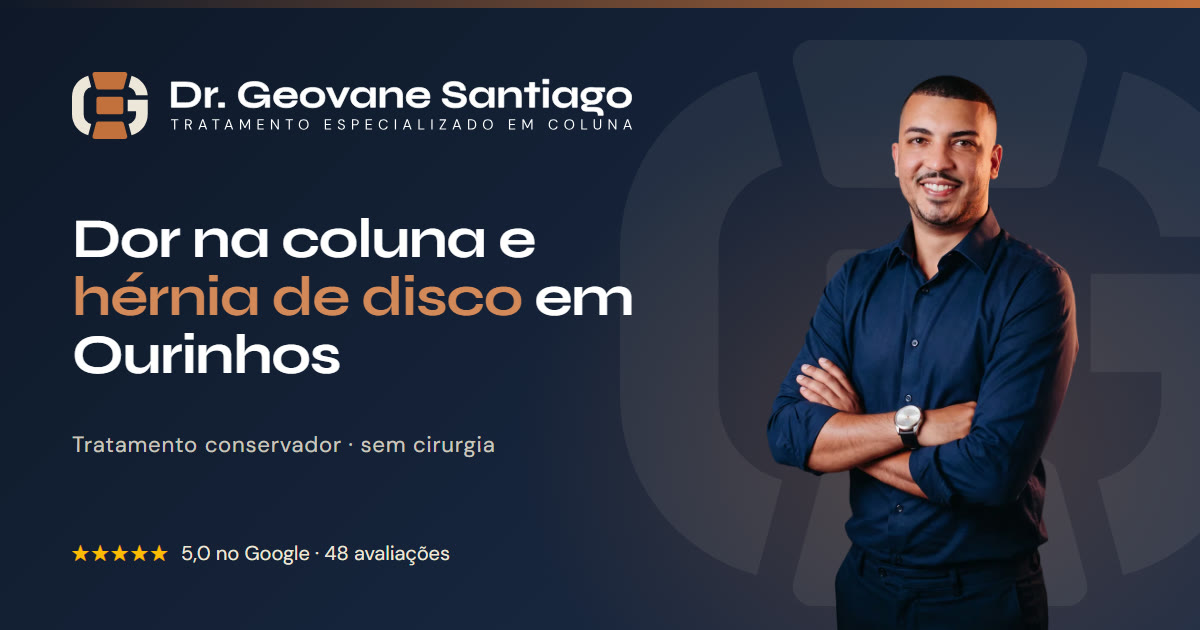
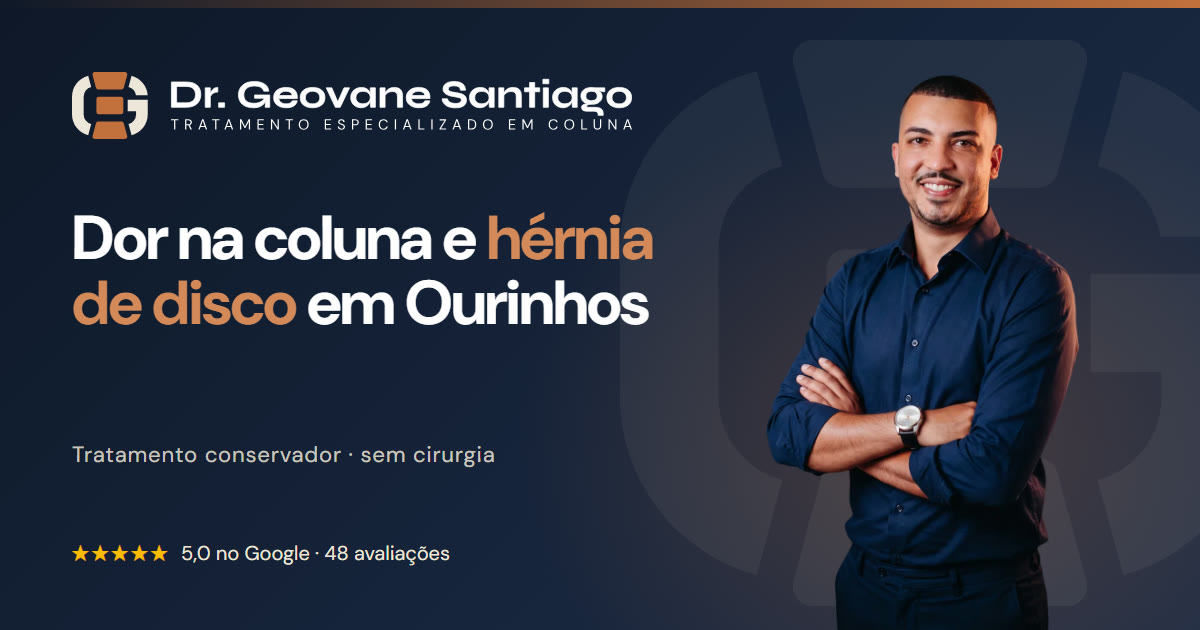
style: títulos de seção em DM Sans com peso uniforme; remove a Syne do site

Changed region(s): [[0.0617, 0.3317, 0.555, 0.6032], [0.0617, 0.6937, 0.4317, 0.754]]

diff --git a/style.css b/style.css
@@ -1,13 +1,5 @@
 /* ===== FONTES (self-host, variáveis) ===== */
 @font-face {
-  font-family: 'Syne';
-  src: url('fonts/syne.woff2') format('woff2');
-  font-weight: 400 800;
-  font-style: normal;
-  font-display: swap;
-}
-
-@font-face {
   font-family: 'DM Sans';
   src: url('fonts/dm-sans.woff2') format('woff2');
   font-weight: 100 1000;
@@ -29,7 +21,7 @@
   --ease-out:   cubic-bezier(0.22, 1, 0.36, 1);
   --shadow-soft: 0 4px 12px rgba(22, 35, 59, 0.025), 0 16px 40px rgba(22, 35, 59, 0.055);
   --gray-bg:    #F7F2EB;
-  --font-display: 'Syne', 'DM Sans', system-ui, sans-serif;
+  --font-display: 'DM Sans', system-ui, sans-serif;
   --grad-start: #2B3E63;
   --grad-end:   #16233B;
   --gradient:   linear-gradient(110deg, var(--grad-start), var(--grad-end));
@@ -2767,13 +2759,13 @@ body::-webkit-scrollbar-thumb:hover {
 
 /* =====================================================================
    CAMADA DR. GEOVANE SANTIAGO
-   Ajustes da identidade (marinho + cobre + areia, Syne + DM Sans)
+   Ajustes da identidade (marinho + cobre + areia, DM Sans)
    sobre a estrutura herdada.
    ===================================================================== */
 
 body { color: var(--texto); }
 
-/* Títulos em Syne: mais larga que a serifa antiga, então os tamanhos caem um pouco */
+/* Família e espaçamento dos títulos (tamanhos finais no bloco "TÍTULOS EM DM SANS") */
 .hero-left h1,
 .intro-left h2,
 .treatment-title,
@@ -3160,3 +3152,65 @@ body { color: var(--texto); }
 .nowrap { white-space: nowrap; }
 
 .reviews-block { border-top: 1px solid rgba(238, 230, 218, 0.08); }
+
+/* ===== TÍTULOS EM DM SANS =====
+   Títulos de seção na mesma família do texto. A parte em cobre usa o mesmo peso
+   da parte em marinho, para a largura das letras não mudar dentro do título. */
+.hero-left h1,
+.intro-left h2,
+.treatment-title,
+.card h3,
+.problems-headline,
+.condition-title,
+.reviews-title,
+.profile-title,
+.faq-title,
+.contact-title,
+.review-modal__title {
+  font-weight: 700;
+  letter-spacing: -0.025em;
+}
+
+.hero .gradient-text,
+.intro-left h2 strong,
+.condition-title strong,
+.reviews-title strong { font-weight: 700; }
+
+.hero-left h1 { font-size: 52px; line-height: 1.08; }
+.intro-left h2 { font-size: 38px; }
+.treatment-title { font-size: 46px; }
+.condition-title { font-size: 40px; }
+.reviews-title { font-size: 42px; }
+.profile-title { font-size: 44px; }
+.faq-title { font-size: 44px; }
+.contact-title { font-size: 52px; }
+.card h3 { font-size: 23px; }
+.problems-headline { font-size: 28px; }
+.card::before,
+.profile-highlights strong { font-weight: 700; letter-spacing: -0.02em; }
+
+@media (max-width: 1100px) {
+  .hero-left h1 { font-size: 44px; }
+}
+
+@media (max-width: 820px) {
+  .hero-left h1 { font-size: 42px; }
+  .intro-left h2 { font-size: 32px; }
+  .treatment-title, .faq-title, .reviews-title { font-size: 36px; }
+  .condition-title { font-size: 33px; }
+  .profile-title { font-size: 38px; }
+}
+
+@media (max-width: 480px) {
+  .hero-left h1 { font-size: 35px; }
+  .intro-left h2 { font-size: 29px; }
+  .treatment-title, .faq-title, .reviews-title { font-size: 31px; }
+  .condition-title { font-size: 29px; }
+  .profile-title { font-size: 32px; }
+  .contact-title { font-size: 38px; }
+  .problems-headline { font-size: 26px; }
+}
+
+@media (max-width: 360px) {
+  .hero-left h1 { font-size: 31px; }
+}

diff --git a/index.html b/index.html
@@ -322,7 +322,6 @@
   <link rel="icon" href="/favicon.ico" sizes="48x48">
   <link rel="icon" type="image/svg+xml" href="/favicon.svg">
   <link rel="apple-touch-icon" href="/apple-touch-icon.png">
-  <link rel="preload" href="fonts/syne.woff2" as="font" type="font/woff2" crossorigin>
   <link rel="preload" href="fonts/dm-sans.woff2" as="font" type="font/woff2" crossorigin>
   <link rel="preload" as="image" type="image/webp" imagesrcset="dr-geovane-600.webp 600w, dr-geovane.webp 1000w" imagesizes="(max-width: 820px) 360px, 570px" fetchpriority="high">
   <link rel="stylesheet" href="style.css">
